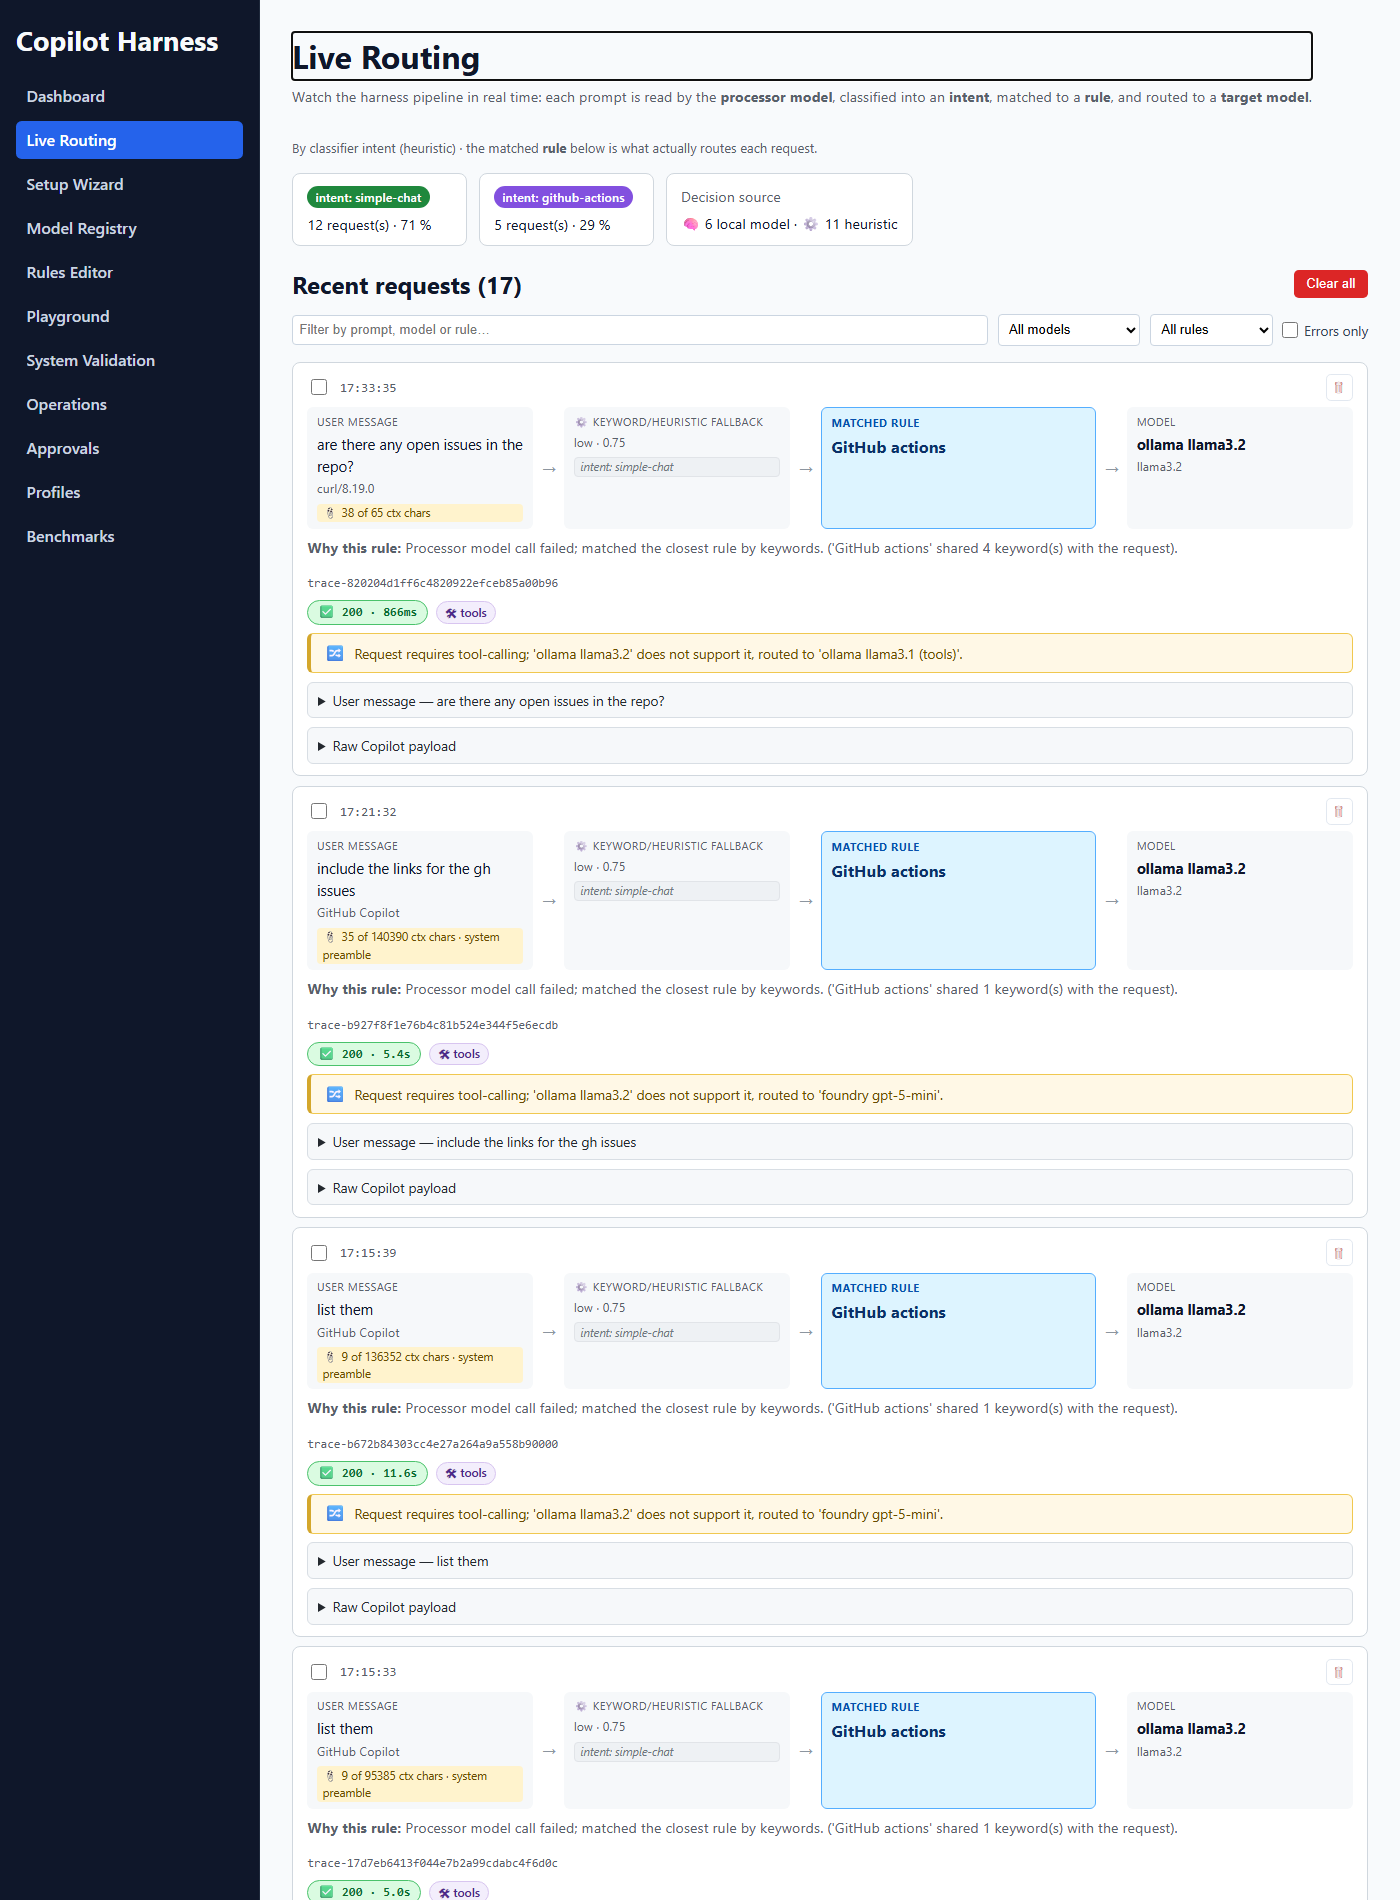
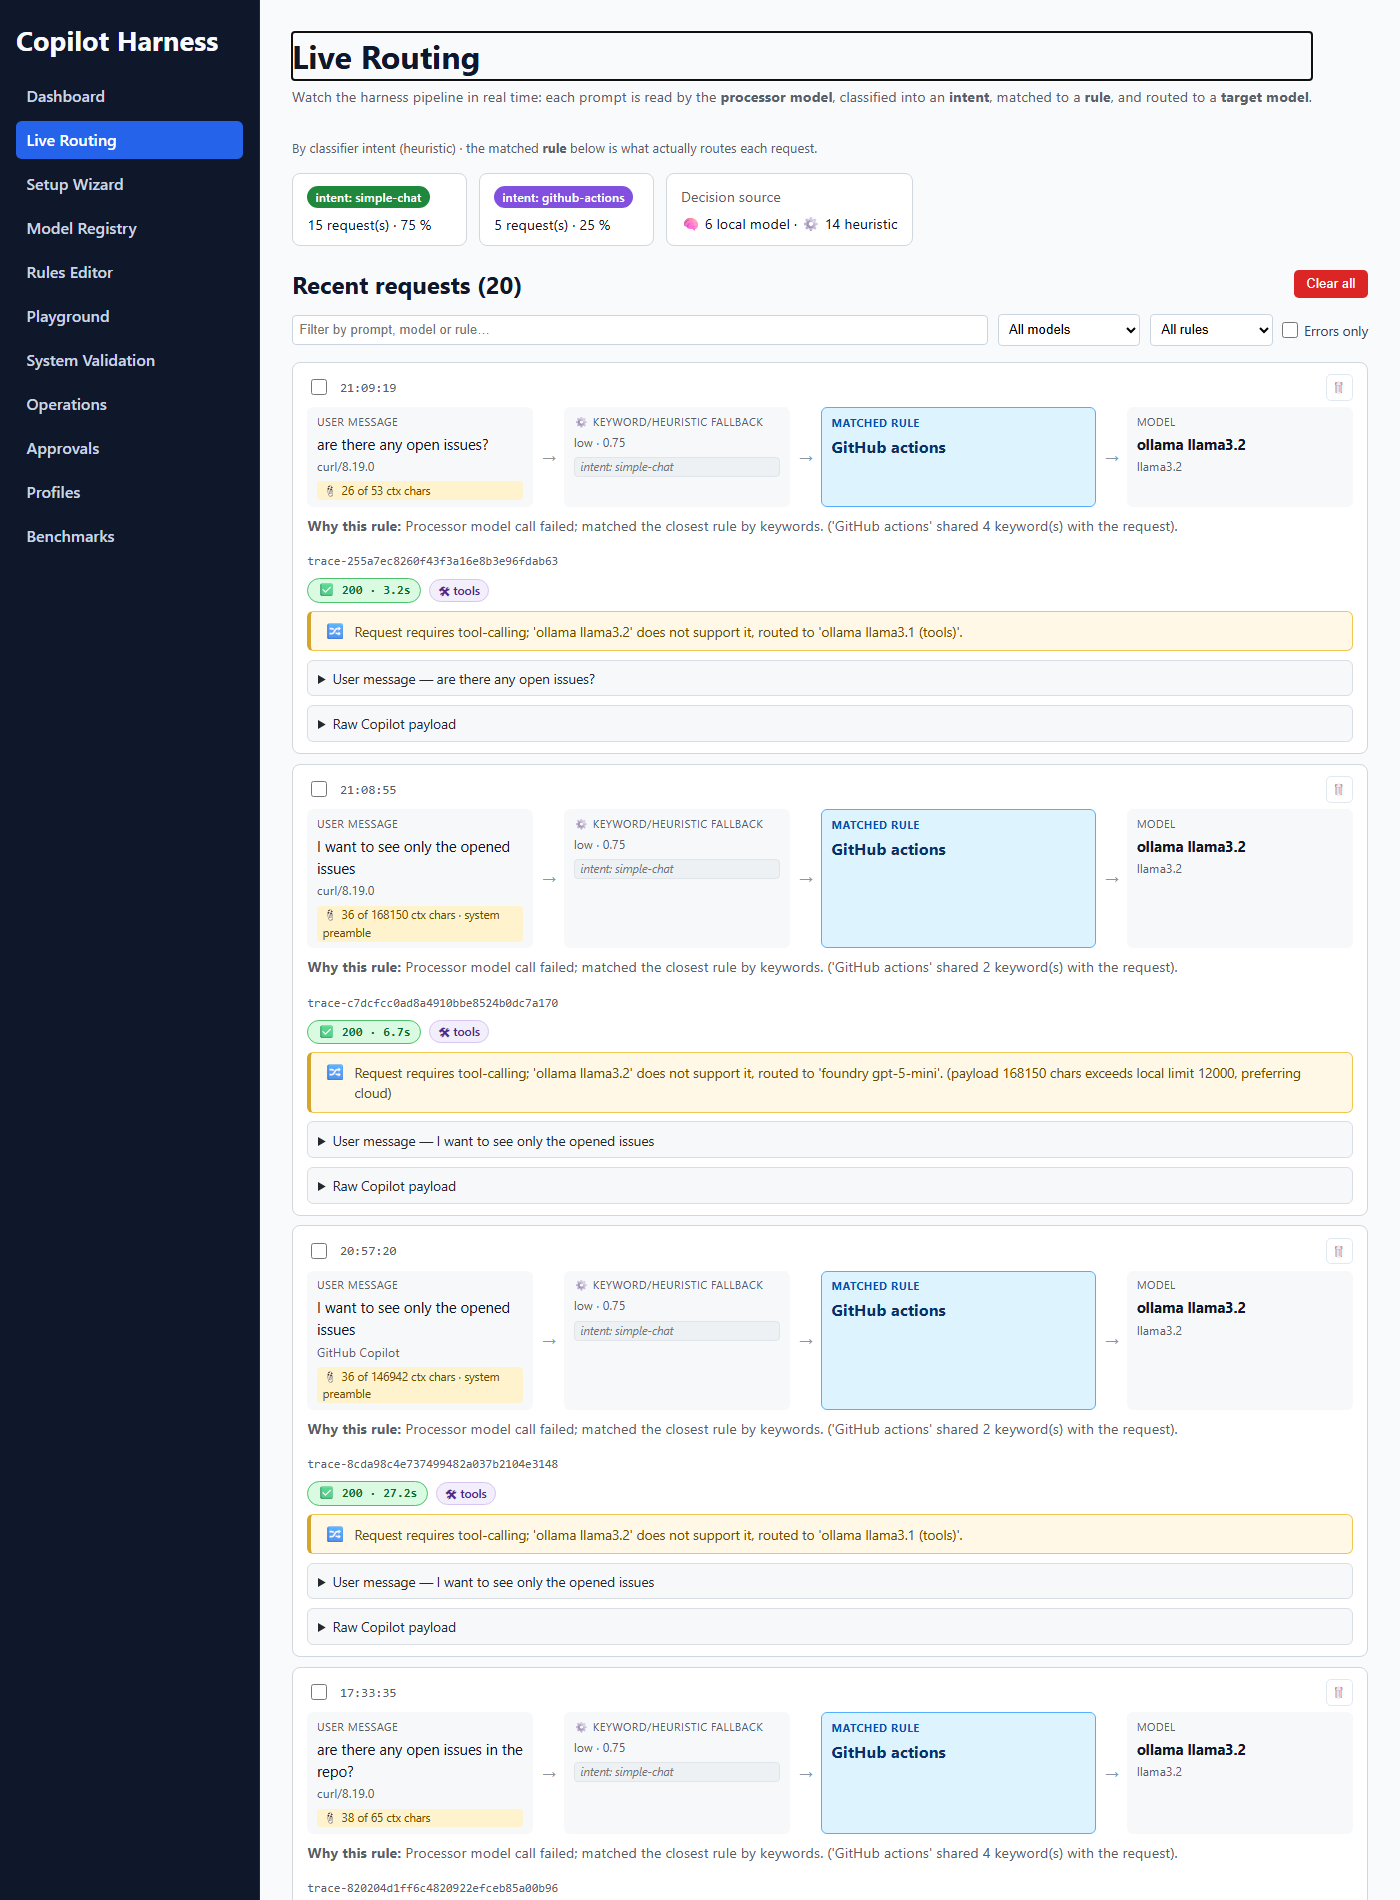
Fix "Response too long" by size-aware tool override + local max_tokens cap
Large agentic Copilot payloads (100K+ chars) were overridden to the local
tool-caller (llama3.1:8b), which over-generated and tripped VS Code's
"Response too long." cap (observed 27s latency, HTTP 200).

- Size-aware override: tool requests with total prompt <= LocalToolCallingMax-
  PromptCharacters (default 12000) stay on the local tool-caller; larger agentic
  payloads are overridden to a cloud tool-capable model instead. FindToolCapable-
  Model gains a preferLocal flag; the override reason surfaces the size + reason.
- Safety net: OpenAiApiUtilities.ClampMaxTokens caps output tokens for Ollama
  routes at LocalRouteMaxTokens (default 4096) so a local model can't run away.
- New knobs under Routing:Rules in appsettings (config-only, flowed through the
  DB projection so they survive persisted settings).
- Tests: preferLocal cloud preference, ClampMaxTokens cases, and an endpoint
  test asserting a large tool payload overrides to cloud (159 tests pass).
- Docs: Troubleshooting "Response too long" section + Model_Registry size-aware
  note; refreshed Live Routing screenshot.

Benchmarked qwen2.5:7b-instruct vs llama3.1:8b for the local path: qwen leaks
preamble content and hallucinates args, so llama3.1:8b remains the local default.

diff --git a/tests/ElBruno.CopilotHarness.Router.Api.Tests/ToolCallingRoutingTests.cs b/tests/ElBruno.CopilotHarness.Router.Api.Tests/ToolCallingRoutingTests.cs
@@ -150,7 +150,72 @@ public sealed class ToolCallingRoutingTests
         Assert.Null(result);
     }
 
-    // ── BuildUpstreamFacts (projection consumed by E/F) ───────────────────────
+    [Fact]
+    public void FindToolCapableModel_PreferLocalFalse_PrefersCloudOverLocal()
+    {
+        var options = new RoutingOptions
+        {
+            DefaultProfile = "ollama",
+            Profiles = new Dictionary<string, ModelProfileOptions>(StringComparer.OrdinalIgnoreCase)
+            {
+                ["ollama"] = new() { Deployment = "llama3.2", Type = ModelProviderType.Ollama, Enabled = true, SupportsToolCalling = false },
+                ["local-capable"] = new() { Deployment = "llama3.1:8b", Type = ModelProviderType.Ollama, Enabled = true, SupportsToolCalling = true },
+                ["gpt5mini"] = new() { Deployment = "gpt-5-mini", Type = ModelProviderType.AzureOpenAI, Enabled = true, SupportsToolCalling = true }
+            }
+        };
+
+        // A heavy agentic payload asks for cloud preference so the local model isn't overwhelmed.
+        var result = OpenAiApiUtilities.FindToolCapableModel(options, excludeProfileName: "ollama", preferLocal: false);
+
+        Assert.NotNull(result);
+        Assert.Equal("gpt5mini", result!.Value.ProfileName);
+    }
+
+    // ── ClampMaxTokens (local-route safety net) ───────────────────────────────
+
+    [Fact]
+    public void ClampMaxTokens_SetsLimit_WhenAbsent()
+    {
+        var body = System.Text.Json.Nodes.JsonNode.Parse("""{"model":"m"}""")!.AsObject();
+
+        var changed = OpenAiApiUtilities.ClampMaxTokens(body, 4096);
+
+        Assert.True(changed);
+        Assert.Equal(4096, (int)body["max_tokens"]!);
+    }
+
+    [Fact]
+    public void ClampMaxTokens_ReducesLimit_WhenLargerThanCap()
+    {
+        var body = System.Text.Json.Nodes.JsonNode.Parse("""{"max_tokens":100000}""")!.AsObject();
+
+        var changed = OpenAiApiUtilities.ClampMaxTokens(body, 4096);
+
+        Assert.True(changed);
+        Assert.Equal(4096, (int)body["max_tokens"]!);
+    }
+
+    [Fact]
+    public void ClampMaxTokens_LeavesSmallerLimitUntouched()
+    {
+        var body = System.Text.Json.Nodes.JsonNode.Parse("""{"max_tokens":256}""")!.AsObject();
+
+        var changed = OpenAiApiUtilities.ClampMaxTokens(body, 4096);
+
+        Assert.False(changed);
+        Assert.Equal(256, (int)body["max_tokens"]!);
+    }
+
+    [Fact]
+    public void ClampMaxTokens_NoOp_WhenCapIsZeroOrNegative()
+    {
+        var body = System.Text.Json.Nodes.JsonNode.Parse("""{"model":"m"}""")!.AsObject();
+
+        var changed = OpenAiApiUtilities.ClampMaxTokens(body, 0);
+
+        Assert.False(changed);
+        Assert.Null(body["max_tokens"]);
+    }
 
     [Fact]
     public void BuildUpstreamFacts_SuccessOutcome_ProjectsStatusAndLatency()

diff --git a/src/ElBruno.CopilotHarness.Router.Api/RequestRoutingService.cs b/src/ElBruno.CopilotHarness.Router.Api/RequestRoutingService.cs
@@ -229,21 +229,51 @@ public static class OpenAiApiUtilities
         requestBody?["tools"] is JsonArray tools && tools.Count > 0;
 
     /// <summary>
+    /// Caps the output-token limit of a forwarded payload at <paramref name="cap"/> tokens. Sets
+    /// <c>max_tokens</c> when it is absent or larger than the cap; leaves an existing smaller limit alone.
+    /// Used as a safety net for local (Ollama) routes so a small model cannot produce a runaway response.
+    /// Returns <c>true</c> when the payload was changed.
+    /// </summary>
+    public static bool ClampMaxTokens(JsonObject requestBody, int cap)
+    {
+        if (cap <= 0)
+        {
+            return false;
+        }
+
+        if (requestBody["max_tokens"] is JsonValue existing &&
+            existing.TryGetValue<int>(out var current) &&
+            current > 0 &&
+            current <= cap)
+        {
+            return false;
+        }
+
+        requestBody["max_tokens"] = cap;
+        return true;
+    }
+
+    /// <summary>
+    /// <summary>
     /// Finds the best enabled, tool-calling-capable model to redirect a tool request to, excluding
-    /// <paramref name="excludeProfileName"/>. Local (Ollama) models are preferred so tool requests stay
-    /// local; cloud/Azure models are used only as a fallback. Ties broken by name for deterministic
-    /// selection. Returns null when no tool-capable model is available.
+    /// <paramref name="excludeProfileName"/>. When <paramref name="preferLocal"/> is <c>true</c> the local
+    /// (Ollama) tool-caller is preferred so small tool requests stay local; when <c>false</c> (e.g. a heavy
+    /// agentic payload a local model can't serve) a cloud model is preferred. Ties broken by name for
+    /// deterministic selection. Returns null when no tool-capable model is available.
     /// </summary>
     public static (string ProfileName, ModelProfileOptions Profile)? FindToolCapableModel(
         RoutingOptions options,
-        string? excludeProfileName)
+        string? excludeProfileName,
+        bool preferLocal = true)
     {
         var best = options.Profiles
             .Where(entry =>
                 entry.Value.Enabled &&
                 entry.Value.SupportsToolCalling &&
                 !string.Equals(entry.Key, excludeProfileName, StringComparison.OrdinalIgnoreCase))
-            .OrderByDescending(entry => entry.Value.Type == ModelProviderType.Ollama)
+            .OrderByDescending(entry => preferLocal
+                ? entry.Value.Type == ModelProviderType.Ollama
+                : entry.Value.Type != ModelProviderType.Ollama)
             .ThenBy(entry => entry.Key, StringComparer.OrdinalIgnoreCase)
             .Select(entry => ((string ProfileName, ModelProfileOptions Profile)?)(entry.Key, entry.Value))
             .FirstOrDefault();

diff --git a/tests/ElBruno.CopilotHarness.Router.Api.Tests/ToolGuardAndUpstreamOutcomeEndpointTests.cs b/tests/ElBruno.CopilotHarness.Router.Api.Tests/ToolGuardAndUpstreamOutcomeEndpointTests.cs
@@ -105,6 +105,32 @@ public sealed class ToolGuardAndUpstreamOutcomeEndpointTests
     }
 
     [Fact]
+    public async Task LargeToolRequest_OnNonCapableModel_OverridesToCloudModel()
+    {
+        using var factory = RouterApiWebApplicationFactory.Create(new Dictionary<string, string?>
+        {
+            ["Telemetry:CapturePromptText"] = "true"
+        });
+        var client = factory.CreateClient();
+
+        // Force routing to the non-tool-capable Ollama model via a keyword rule.
+        await CreateKeywordRuleAsync(client, "weather", OllamaModel);
+
+        // A heavy agentic payload (> LocalToolCallingMaxPromptCharacters, default 12000) must be sent to the
+        // cloud tool-capable model instead of the local one, which can't serve it without over-generating.
+        var bigContent = "what is the weather today " + new string('x', 15000);
+        var response = await client.PostAsJsonAsync("/v1/chat/completions", ToolsPayload(bigContent));
+        response.EnsureSuccessStatusCode();
+
+        var entry = await GetSingleFeedEntryAsync(client);
+        Assert.True(entry.RequestHadTools);
+        Assert.True(entry.ToolCapabilityOverrideApplied);
+        // The oversized payload prefers the cloud tool-capable model, not the local one.
+        Assert.Contains(FoundryModel, entry.OverrideReason!);
+        Assert.DoesNotContain(LocalToolModel, entry.OverrideReason!);
+    }
+
+    [Fact]
     public async Task ToolRequest_OnCapableModel_NoOverride()
     {
         using var factory = RouterApiWebApplicationFactory.Create(new Dictionary<string, string?>

diff --git a/src/ElBruno.CopilotHarness.Router.Api/Program.cs b/src/ElBruno.CopilotHarness.Router.Api/Program.cs
@@ -425,15 +425,25 @@ app.MapPost("/v1/chat/completions", async (
         var requestHadTools = OpenAiApiUtilities.RequestHasTools(requestPayload);
         var toolOverrideApplied = false;
         string? overrideReason = null;
+        var routingOptions = await routingService.GetRoutingOptionsAsync(cancellationToken);
 
         if (requestHadTools && !selectedProfile.SupportsToolCalling)
         {
-            var routingOptions = await routingService.GetRoutingOptionsAsync(cancellationToken);
-            var capable = OpenAiApiUtilities.FindToolCapableModel(routingOptions, selectedProfileName);
+            // Size-aware override: small tool requests stay local; heavy agentic payloads (which a small
+            // local model can't serve without over-generating and tripping the client's "Response too long"
+            // cap) are sent to a cloud tool-capable model instead.
+            var totalPromptChars = BasicModelRouter.GetPromptCharacterCount(requestPayload);
+            var localMax = routingOptions.Rules.LocalToolCallingMaxPromptCharacters;
+            var preferLocal = localMax <= 0 || totalPromptChars <= localMax;
+
+            var capable = OpenAiApiUtilities.FindToolCapableModel(routingOptions, selectedProfileName, preferLocal);
             if (capable is { } target)
             {
+                var sizeNote = preferLocal
+                    ? string.Empty
+                    : $" (payload {totalPromptChars} chars exceeds local limit {localMax}, preferring cloud)";
                 overrideReason =
-                    $"Request requires tool-calling; '{selectedProfileName}' does not support it, routed to '{target.ProfileName}'.";
+                    $"Request requires tool-calling; '{selectedProfileName}' does not support it, routed to '{target.ProfileName}'.{sizeNote}";
                 selectedProfileName = target.ProfileName;
                 selectedProfile = target.Profile;
                 requestPayload["model"] = selectedProfile.Deployment;
@@ -452,6 +462,14 @@ app.MapPost("/v1/chat/completions", async (
                     traceId,
                     overrideReason);
             }
+        }
+
+        // Safety net: cap output tokens for LOCAL (Ollama) routes so a small local model cannot run away and
+        // produce an oversized response (which the client rejects as "Response too long").
+        if (selectedProfile.Type == ModelProviderType.Ollama &&
+            routingOptions.Rules.LocalRouteMaxTokens > 0)
+        {
+            OpenAiApiUtilities.ClampMaxTokens(requestPayload, routingOptions.Rules.LocalRouteMaxTokens);
         }
 
         var startedAt = DateTimeOffset.UtcNow;

diff --git a/src/ElBruno.CopilotHarness.Router.Core/RoutingOptions.cs b/src/ElBruno.CopilotHarness.Router.Core/RoutingOptions.cs
@@ -68,6 +68,21 @@ public sealed class BasicRulesOptions
 {
     public int BigPromptCharacterThreshold { get; init; } = 2500;
 
+    /// <summary>
+    /// Maximum total prompt size (in characters) for which a tool-calling request may be overridden to a
+    /// LOCAL (Ollama) tool-capable model. Above this size the payload is treated as a heavy agentic request
+    /// that a small local model cannot serve reliably (it over-generates, tripping the client's
+    /// "Response too long" cap), so the override prefers a cloud tool-capable model instead.
+    /// </summary>
+    public int LocalToolCallingMaxPromptCharacters { get; init; } = 12000;
+
+    /// <summary>
+    /// Safety-net cap on the number of output tokens for requests routed to a LOCAL (Ollama) model. Prevents
+    /// a small local model from running away and producing an oversized response. Applied only when the
+    /// forwarded payload does not already request a smaller limit. Set to 0 to disable the cap.
+    /// </summary>
+    public int LocalRouteMaxTokens { get; init; } = 4096;
+
     [Required]
     public string BigProfile { get; init; } = "big";
 

diff --git a/src/ElBruno.CopilotHarness.Router.Core/Persistence/RoutingConfigurationStore.cs b/src/ElBruno.CopilotHarness.Router.Core/Persistence/RoutingConfigurationStore.cs
@@ -79,7 +79,10 @@ public sealed class RoutingConfigurationStore(
                     BigProfile = settings.BigProfile,
                     StreamingProfile = settings.StreamingProfile,
                     PreferBigWhenSystemMessageExists = settings.PreferBigWhenSystemMessageExists,
-                    PreferStreamingProfileWhenStreaming = settings.PreferStreamingProfileWhenStreaming
+                    PreferStreamingProfileWhenStreaming = settings.PreferStreamingProfileWhenStreaming,
+                    // Operational tuning knobs sourced from configuration (not DB-persisted).
+                    LocalToolCallingMaxPromptCharacters = _bootstrapOptions.Rules.LocalToolCallingMaxPromptCharacters,
+                    LocalRouteMaxTokens = _bootstrapOptions.Rules.LocalRouteMaxTokens
                 }
         };
     }

diff --git a/docs/Troubleshooting.md b/docs/Troubleshooting.md
@@ -84,6 +84,32 @@ On the [Live Routing](Live_Routing.md) page you can now see all of this:
   model can't do tool-calling, and
 - the **Errors only** filter narrows the feed to failed upstream calls.
 
+## "Response too long" on an agentic request {#response-too-long}
+
+**Symptom.** VS Code Copilot fails with **`Reason: Response too long.`** even though the
+router returned `HTTP 200`. On the [Live Routing](Live_Routing.md) page the request carries a
+🛠 **tools** chip, was overridden to a **local** model, and shows a high latency (e.g. 27 s).
+
+**Cause.** The request was a heavy agentic payload (VS Code sends the *whole* working set —
+often 100K+ characters — even for a one-line ask like *"show only open issues"*). A small
+local model can't ingest that much context (Ollama also truncates it via a small default
+`num_ctx`), so it **over-generates** a runaway response that exceeds the client's output cap,
+which VS Code reports as *"Response too long."*
+
+**Fix.** The tool-capability override is now **size-aware**:
+
+- Tool requests whose **total prompt size** is at or below
+  `Routing:Rules:LocalToolCallingMaxPromptCharacters` (default **12000**) are kept on the
+  local tool-caller.
+- Larger agentic payloads are overridden to a **cloud** tool-capable model instead — the
+  Live-view override note shows *"…preferring cloud"* with the measured size.
+
+As a second safety net, requests routed to a **local (Ollama)** model have their output capped
+at `Routing:Rules:LocalRouteMaxTokens` (default **4096**; set `0` to disable), so a local model
+can never run away. Both knobs live under `Routing:Rules` in `appsettings.json`. If large
+agentic requests should still run locally, raise `LocalToolCallingMaxPromptCharacters` (and
+expect them to be slow / memory-heavy).
+
 ## Temperature 400 {#temperature-400}
 
 **Symptom.** A chat request from VS Code Copilot fails with:

diff --git a/docs/Model_Registry.md b/docs/Model_Registry.md
@@ -113,10 +113,15 @@ proxy returned `HTTP 200`. Each connection therefore carries a `supportsToolCall
 - When `false` the model is treated as **chat-only**. If a request that includes
   `tools`/`functions` would otherwise route to this model, the **tool-capability guard**
   automatically overrides the route and dispatches to a tool-capable model instead. The
-  override prefers a **local (Ollama) tool-capable model** so tool requests stay local, and
-  falls back to a cloud model only when no local tool-caller is enabled. The override and its
-  reason are surfaced on the [Live Routing](Live_Routing.md) page as a 🛠 **tools** chip plus
-  a highlighted override note.
+  override is **size-aware**: small tool requests (total prompt ≤
+  `Routing:Rules:LocalToolCallingMaxPromptCharacters`, default 12000) prefer a **local
+  (Ollama)** tool-caller so they stay local, while **large agentic payloads** (which a small
+  local model can't serve without over-generating) are sent to a **cloud** tool-capable model.
+  Requests routed to a local model are additionally capped at
+  `Routing:Rules:LocalRouteMaxTokens` (default 4096) as a runaway safety net. The override and
+  its reason are surfaced on the [Live Routing](Live_Routing.md) page as a 🛠 **tools** chip
+  plus a highlighted override note. See
+  [Troubleshooting → "Response too long"](Troubleshooting.md#response-too-long).
 
 The seeded models cover both jobs:
 